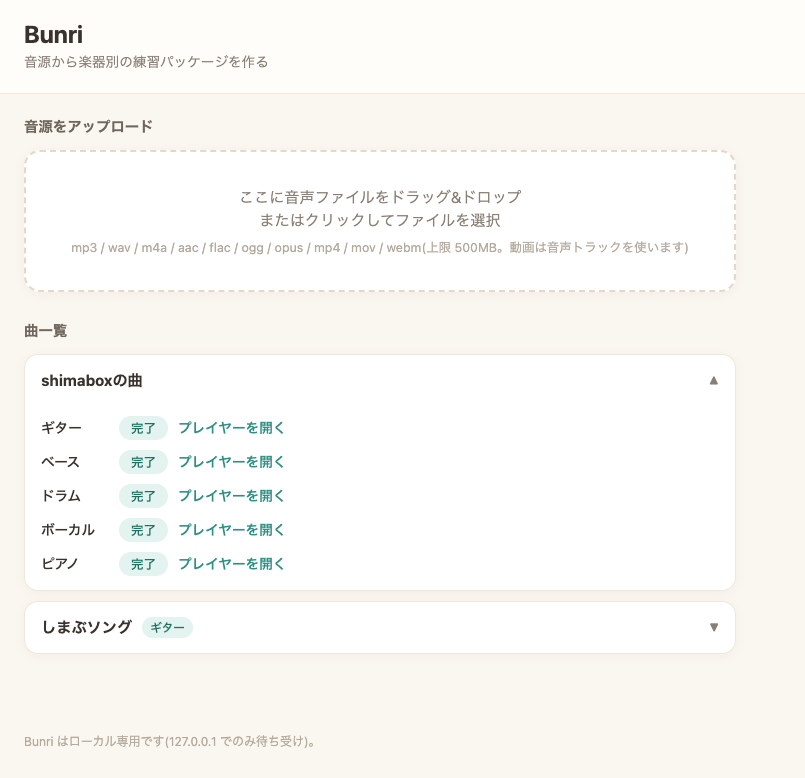
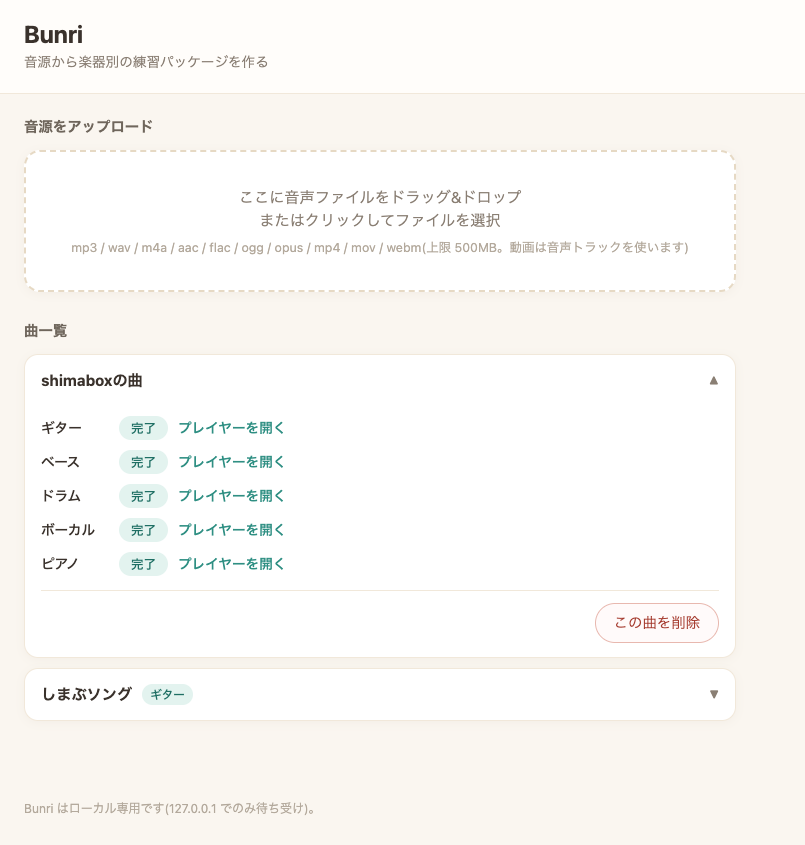
docs: update README screenshots for delete and instrument selection
- web-ui.png: retake with the delete button in the open song card
- upload.png: new shot of the upload panel with instrument checkboxes
- README: three-column table (アップロード / 曲一覧 / 練習プレイヤー)

diff --git a/README.md b/README.md
@@ -2,9 +2,9 @@
 
 Bunri (分離, "separation") extracts a single instrument stem (guitar by default; bass, drums, vocals, piano also supported) from a song and builds a practice package: the instrument alone, the backing track without it, the original, and an offline HTML player with A-B loop and pitch-preserving slow-down. Audio processing runs locally on your machine; your audio is never uploaded. Documentation is in Japanese.
 
-| メイン | 練習プレイヤー |
-|---|---|
-| ![曲一覧](docs/images/web-ui.png) | ![練習プレイヤー](docs/images/player.png) |
+| アップロード | 曲一覧 | 練習プレイヤー |
+|---|---|---|
+| ![アップロード](docs/images/upload.png) | ![曲一覧](docs/images/web-ui.png) | ![練習プレイヤー](docs/images/player.png) |
 
 音源から特定の楽器パート(まずはギター)の stem を抽出し、練習用パッケージ(その楽器だけ / その楽器を抜いた伴奏 / 原曲 + オフラインで再生できる HTML プレイヤー)を生成するツールです。処理はすべてお使いのマシン内で完結し、音源が外部に送信されることはありません。
 
